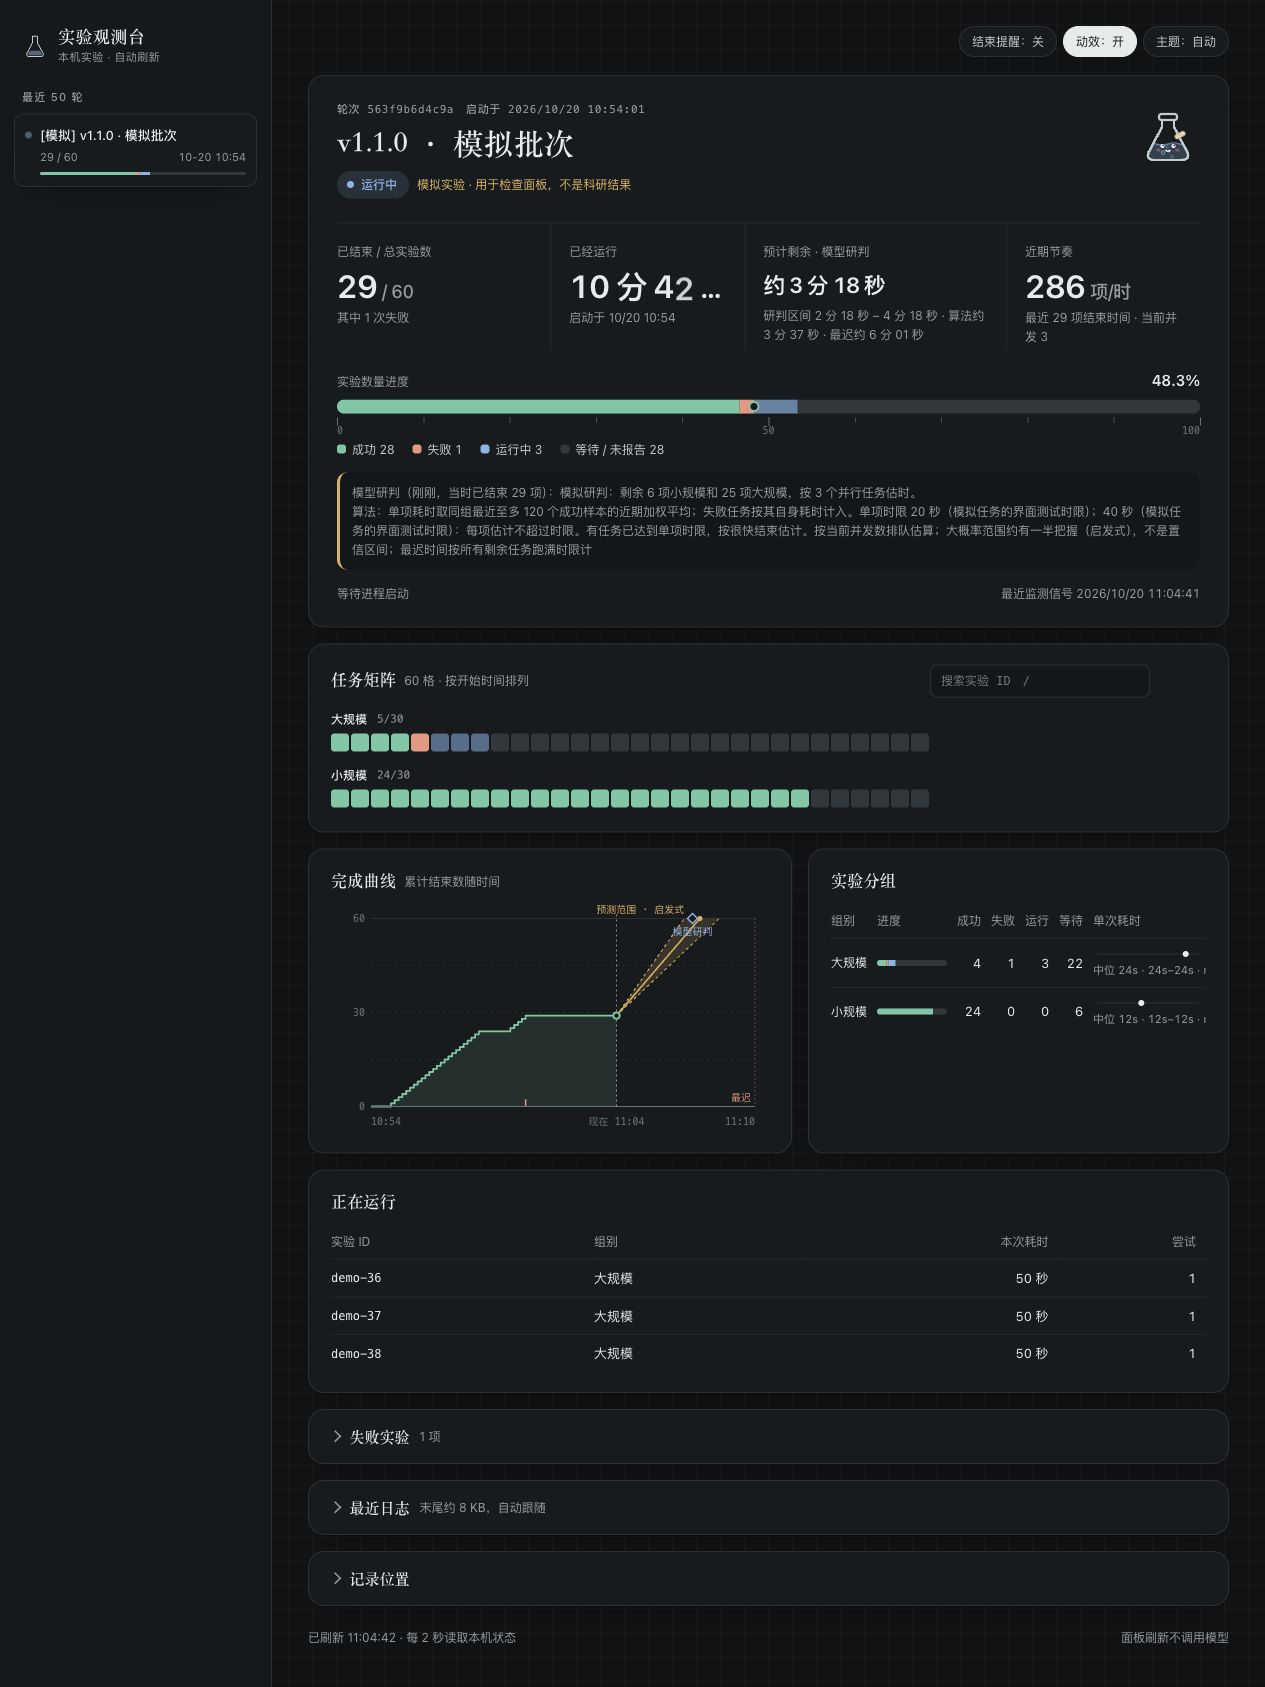
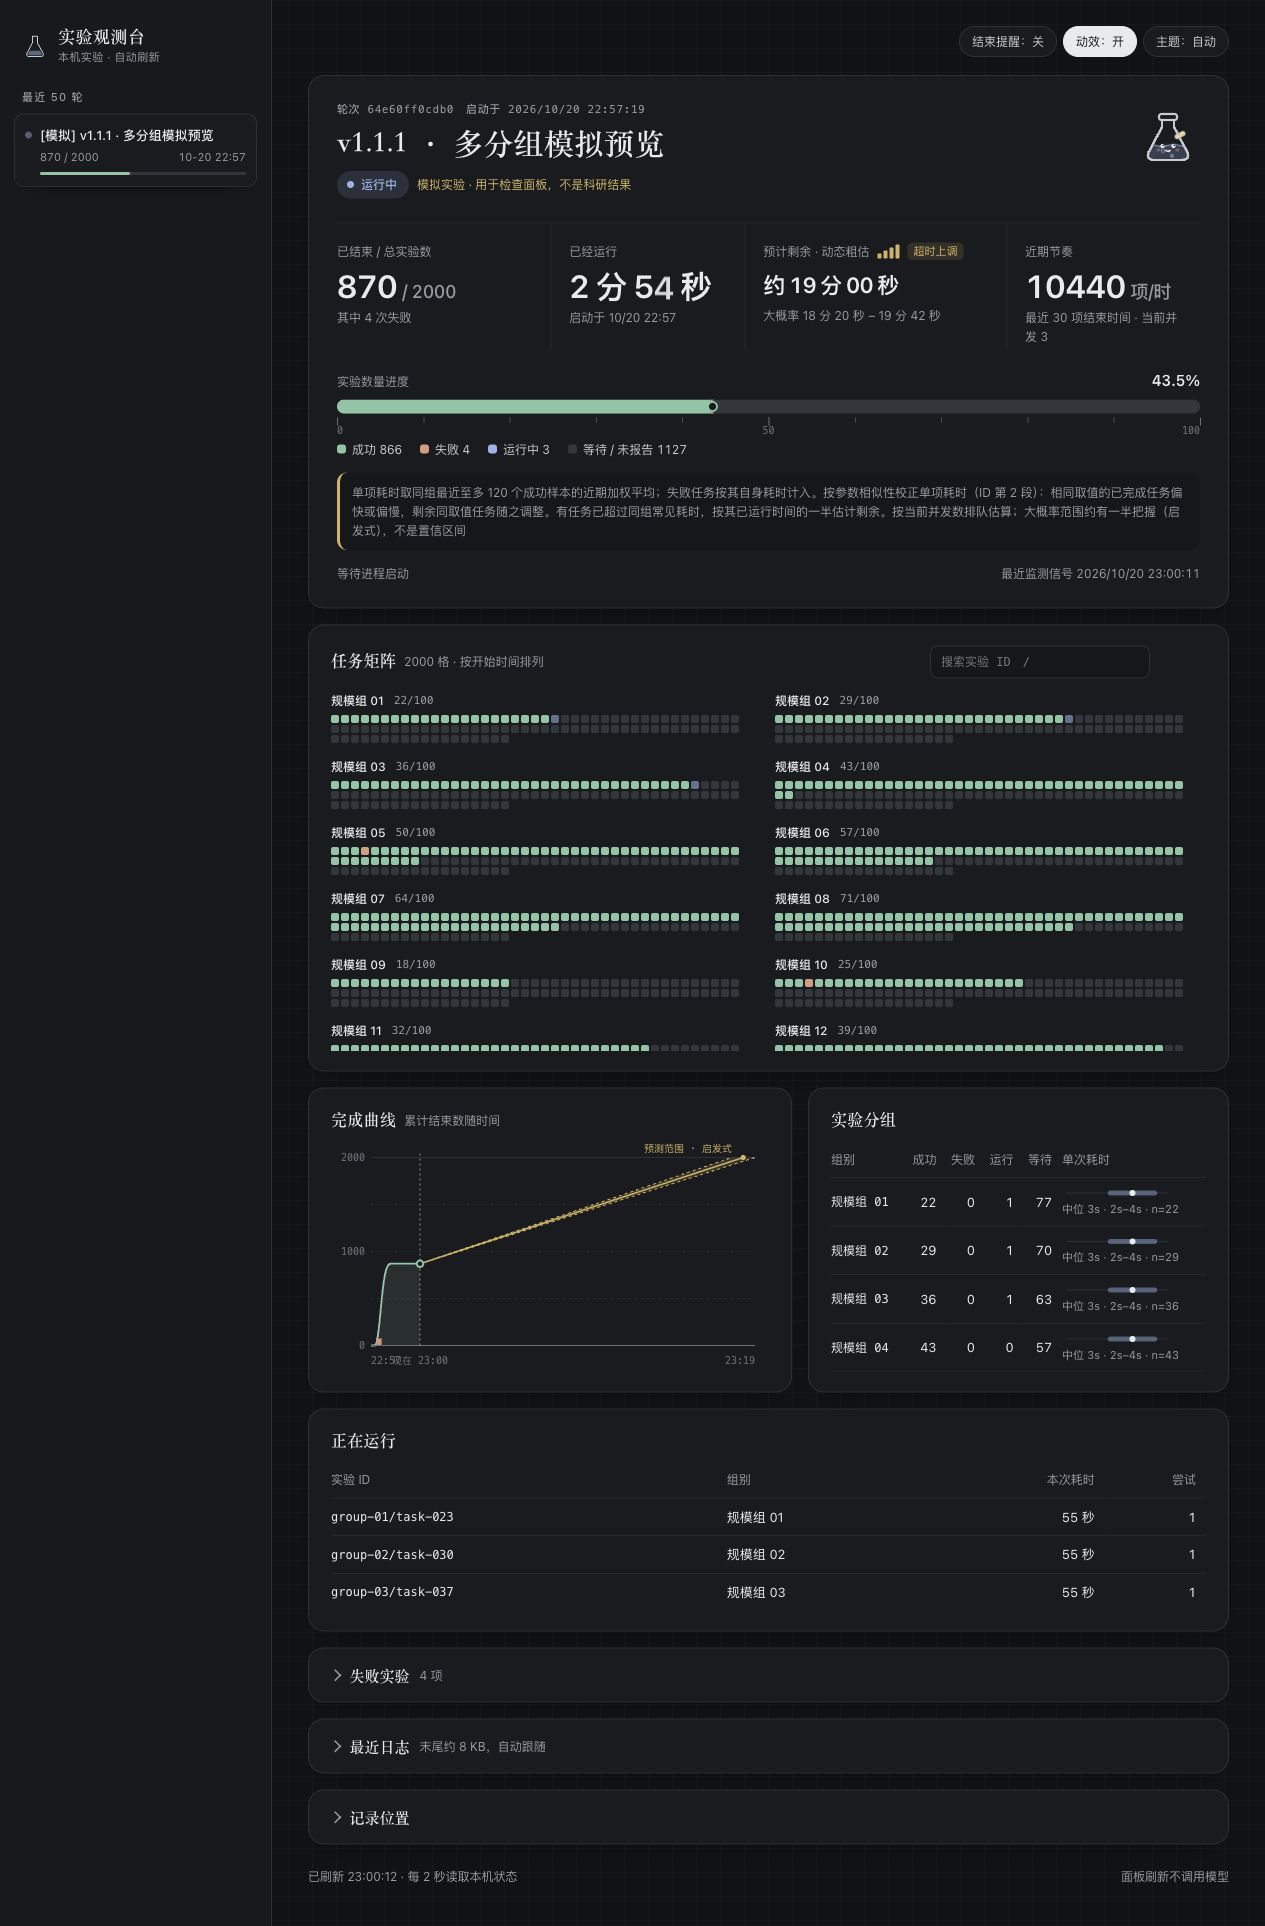
Publish v1.1.1 with scrollable observatory layouts

diff --git a/skills/experiment-progress/assets/dashboard.html b/skills/experiment-progress/assets/dashboard.html
@@ -192,6 +192,7 @@ h3 small{font:400 12px var(--sans);color:var(--muted);margin-left:8px;letter-spa
 .search input:focus{outline:2px solid var(--run);outline-offset:0;border-color:transparent}
 .search span{font-size:12px;color:var(--muted);font-variant-numeric:tabular-nums;min-width:4em}
 .matrix-wrap{position:relative}
+.matrix-scroll{overflow-y:auto;overscroll-behavior:contain;scrollbar-gutter:stable}
 #matrix{display:block;width:100%;border-radius:6px}
 #matrix:focus-visible{outline:2px solid var(--run);outline-offset:4px}
 .tip{position:absolute;z-index:3;pointer-events:none;background:var(--ink);color:var(--panel);padding:7px 10px;border-radius:8px;font-size:12px;line-height:1.5;transform:translate(-50%,calc(-100% - 10px));white-space:nowrap;box-shadow:0 6px 20px -8px rgba(0,0,0,.5)}
@@ -200,6 +201,9 @@ h3 small{font:400 12px var(--sans);color:var(--muted);margin-left:8px;letter-spa
 .muted-note{color:var(--muted);font-size:13px;padding:18px 0}
 .grid-2{display:grid;grid-template-columns:minmax(0,1.15fr) minmax(0,1fr);gap:16px}
 .grid-2>.section{margin-top:16px}
+#groups-section{display:flex;flex-direction:column}
+#groups-section .table-wrap{flex:1 1 auto;height:0;overflow:auto;overscroll-behavior:contain}
+.gtable thead th{position:sticky;top:0;z-index:1;background:var(--panel)}
 #curve{display:block;width:100%;height:230px}
 #curve text{font:10px var(--mono);fill:var(--faint)}
 table{border-collapse:collapse;width:100%;font-size:13px}
@@ -209,8 +213,6 @@ tr:last-child td{border-bottom:0}
 .num{text-align:right;font-variant-numeric:tabular-nums;white-space:nowrap}
 .id{font-family:var(--mono);font-size:12px}
 .gtable td:first-child{white-space:nowrap;overflow-wrap:normal}
-.gbar{display:flex;height:6px;border-radius:3px;overflow:hidden;background:var(--wait);min-width:70px}
-.gbar i{display:block;height:100%}
 .range svg{display:block;width:110px;height:14px}
 .range small{display:block;font-size:11px;color:var(--muted);font-variant-numeric:tabular-nums;white-space:nowrap}
 .table-wrap{overflow-x:auto}
@@ -234,9 +236,9 @@ footer{display:flex;justify-content:space-between;flex-wrap:wrap;gap:8px;color:v
 #confetti{position:fixed;inset:0;pointer-events:none;z-index:50;width:100vw;height:100vh}
 .sr{position:absolute;width:1px;height:1px;overflow:hidden;clip:rect(0 0 0 0);white-space:nowrap}
 
-@media (max-width:1180px){.readouts{grid-template-columns:1fr 1fr}.readout:nth-child(3){padding-left:0;border-left:0}.readout:nth-child(n+3){border-top:1px solid var(--line-2)}.grid-2{grid-template-columns:minmax(0,1fr)}}
+@media (max-width:1180px){.readouts{grid-template-columns:1fr 1fr}.readout:nth-child(3){padding-left:0;border-left:0}.readout:nth-child(n+3){border-top:1px solid var(--line-2)}.grid-2{grid-template-columns:minmax(0,1fr)}#groups-section .table-wrap{height:auto;max-height:320px}}
 @media (max-width:900px){.app{grid-template-columns:1fr}.rail{display:none}.mobile-pick{display:block;flex-basis:100%}.tools{margin-left:0}main{padding:16px 16px 30px}}
-@media (max-width:560px){.hero{padding:20px 18px}.section{padding:16px}.dbody{padding:0 16px 16px}details>summary{padding:14px 16px}.value{font-size:26px}.value.medium{font-size:18px;line-height:1.75}.readout{padding-right:10px}.readout+.readout{padding-left:10px}.readout:nth-child(3){padding-left:0}.mascot{width:52px;height:52px}.bubble{display:none}.search input{width:140px}.gtable th:nth-child(2),.gtable td:nth-child(2){display:none}.kv{grid-template-columns:max-content minmax(0,1fr)}.kv .copy{display:none}}
+@media (max-width:560px){.hero{padding:20px 18px}.section{padding:16px}.dbody{padding:0 16px 16px}details>summary{padding:14px 16px}.value{font-size:26px}.value.medium{font-size:18px;line-height:1.75}.readout{padding-right:10px}.readout+.readout{padding-left:10px}.readout:nth-child(3){padding-left:0}.mascot{width:52px;height:52px}.bubble{display:none}.search input{width:140px}.kv{grid-template-columns:max-content minmax(0,1fr)}.kv .copy{display:none}}
 @media (pointer:coarse){.chip-btn,.mobile-pick select,.search input{min-height:40px}}
 </style>
 </head>
@@ -293,13 +295,13 @@ footer{display:flex;justify-content:space-between;flex-wrap:wrap;gap:8px;color:v
     <section class="card section">
       <div class="sec-head"><h3>任务矩阵<small id="matrix-sub">每格一个实验</small></h3>
         <label class="search"><span class="sr">按实验 ID 搜索</span><input id="search" type="search" placeholder="搜索实验 ID　/" autocomplete="off" spellcheck="false"><span id="search-count"></span></label></div>
-      <div class="matrix-wrap" id="matrix-wrap"><canvas id="matrix" tabindex="0" role="img" aria-label="任务矩阵"></canvas><div id="tip" class="tip" hidden></div></div>
+      <div class="matrix-wrap" id="matrix-wrap"><div class="matrix-scroll" id="matrix-scroll"><canvas id="matrix" tabindex="0" role="img" aria-label="任务矩阵"></canvas></div><div id="tip" class="tip" hidden></div></div>
       <p id="matrix-empty" class="muted-note" hidden></p>
     </section>
 
     <div class="grid-2">
       <section class="card section"><div class="sec-head"><h3>完成曲线<small>累计结束数随时间</small></h3></div><svg id="curve" role="img" aria-label="累计完成曲线"></svg><p id="curve-empty" class="muted-note" hidden>首个任务结束后显示曲线。</p></section>
-      <section class="card section" id="groups-section"><div class="sec-head"><h3 id="groups-heading">实验分组</h3></div><div class="table-wrap"><table class="gtable"><thead><tr><th>组别</th><th class="gcol">进度</th><th class="num">成功</th><th class="num">失败</th><th class="num">运行</th><th class="num">等待</th><th>单次耗时</th></tr></thead><tbody id="groups"></tbody></table></div></section>
+      <section class="card section" id="groups-section"><div class="sec-head"><h3 id="groups-heading">实验分组</h3></div><div class="table-wrap"><table class="gtable"><thead><tr><th>组别</th><th class="num">成功</th><th class="num">失败</th><th class="num">运行</th><th class="num">等待</th><th>单次耗时</th></tr></thead><tbody id="groups"></tbody></table></div></section>
     </div>
 
     <section class="card section" id="active-section"><div class="sec-head"><h3 id="active-heading">正在运行</h3></div><div class="table-wrap"><table><thead><tr><th>实验 ID</th><th>组别</th><th class="num">本次耗时</th><th class="num">尝试</th></tr></thead><tbody id="active"></tbody></table></div></section>
@@ -440,13 +442,20 @@ function buildMatrix(){
   M.cells=cells;M.sections=sections;layoutMatrix();
 }
 function layoutMatrix(){
-  const W=Math.max(200,canvas.parentElement.clientWidth),n=M.cells.length,head=24,pad=12;M.width=W;
-  const maxH=Math.max(220,Math.min(420,innerHeight*.5));
-  const fit=s=>{const gap=s>=8?2:1,cols=Math.max(1,Math.floor((W+gap)/(s+gap)));let h=0;for(const sec of M.sections)h+=head+Math.ceil(Math.max(1,sec.end-sec.start)/cols)*(s+gap)+pad;return {s,gap,cols,h};};
-  let best=null;for(const s of [18,16,14,12,11,10,9,8,7,6,5,4,3]){best=fit(s);if(best.h<=maxH)break;}
+  const W=Math.max(200,canvas.parentElement.clientWidth),head=24,pad=12;M.width=W;
+  // Groups sit side by side in two columns when there is room; the panel keeps a fixed height and scrolls.
+  const maxH=Math.max(240,Math.min(420,innerHeight*.5)),lanes=W>=560&&M.sections.length>1?2:1,laneGap=28,laneW=(W-laneGap*(lanes-1))/lanes;
+  $('matrix-scroll').style.maxHeight=maxH+'px';
+  const rowsOf=(sec,cols)=>Math.ceil(Math.max(1,sec.end-sec.start)/cols);
+  const fit=s=>{const gap=s>=8?2:1,cols=Math.max(1,Math.floor((laneW+gap)/(s+gap)));let h=0;for(let j=0;j<M.sections.length;j+=lanes)h+=head+Math.max(...M.sections.slice(j,j+lanes).map(sec=>rowsOf(sec,cols)))*(s+gap)+pad;return {s,gap,cols,h};};
+  let best=null;for(const s of [18,16,14,12,11,10,9,8]){best=fit(s);if(best.h<=maxH)break;}
   if(!best)best={s:10,gap:2,cols:1,h:40};
   M.size=best.s;M.gap=best.gap;M.cols=best.cols;let y=0;
-  for(const sec of M.sections){sec.y=y;y+=head;for(let i=sec.start;i<sec.end;i++){const k=i-sec.start;M.cells[i].x=(k%best.cols)*(best.s+best.gap);M.cells[i].y=y+Math.floor(k/best.cols)*(best.s+best.gap);}y+=Math.ceil(Math.max(1,sec.end-sec.start)/best.cols)*(best.s+best.gap)+pad;}
+  for(let j=0;j<M.sections.length;j+=lanes){
+    const row=M.sections.slice(j,j+lanes);
+    row.forEach((sec,lane)=>{sec.x=lane*(laneW+laneGap);sec.y=y;for(let i=sec.start;i<sec.end;i++){const k=i-sec.start;M.cells[i].x=sec.x+(k%best.cols)*(best.s+best.gap);M.cells[i].y=y+head+Math.floor(k/best.cols)*(best.s+best.gap);}});
+    y+=head+Math.max(...row.map(sec=>rowsOf(sec,best.cols)))*(best.s+best.gap)+pad;
+  }
   M.height=Math.max(40,y-pad+2);const dpr=devicePixelRatio||1;
   canvas.style.height=M.height+'px';canvas.width=Math.round(W*dpr);canvas.height=Math.round(M.height*dpr);
   drawMatrix();
@@ -459,8 +468,8 @@ function drawMatrix(t=performance.now()){
   ctx.textBaseline='middle';ctx.font='500 12px '+P.sans;
   for(const sec of M.sections){
     const items=M.cells.slice(sec.start,sec.end),done=items.filter(c=>c.st>=2).length;
-    ctx.fillStyle=P.ink;ctx.textAlign='left';ctx.fillText(sec.name,0,sec.y+10);const w=ctx.measureText(sec.name).width;
-    ctx.fillStyle=P.muted;ctx.font='11px '+P.mono;ctx.fillText(`${done}/${items.length}`,w+10,sec.y+10);ctx.font='500 12px '+P.sans;
+    ctx.fillStyle=P.ink;ctx.textAlign='left';ctx.fillText(sec.name,sec.x,sec.y+10);const w=ctx.measureText(sec.name).width;
+    ctx.fillStyle=P.muted;ctx.font='11px '+P.mono;ctx.fillText(`${done}/${items.length}`,sec.x+w+10,sec.y+10);ctx.font='500 12px '+P.sans;
   }
   const fill=[P.wait,P.run,P.ok,P.bad],r=Math.min(3,s/4);
   for(let i=0;i<M.cells.length;i++){
@@ -493,8 +502,10 @@ function showTip(i){
   tip.replaceChildren(...lines.map(([tag,v],k)=>{const el=document.createElement(tag);el.textContent=v;if(k){el.style.display='block';}return el;}));
   tip.hidden=false;
   const W=M.width,x=Math.min(W-90,Math.max(90,c.x+M.size/2));
-  tip.style.left=x+'px';tip.style.top=c.y+'px';
+  tip.style.left=x+'px';tip.style.top=(c.y-$('matrix-scroll').scrollTop)+'px';
 }
+function reveal(i){const sc=$('matrix-scroll'),c=M.cells[i];if(c.y<sc.scrollTop)sc.scrollTop=c.y-30;else if(c.y+M.size>sc.scrollTop+sc.clientHeight)sc.scrollTop=c.y+M.size-sc.clientHeight+6;}
+$('matrix-scroll').addEventListener('scroll',()=>{if(M.hover>=0||M.focus>=0)showTip(M.focus>=0?M.focus:M.hover);},{passive:true});
 canvas.addEventListener('pointermove',e=>{const b=canvas.getBoundingClientRect();const i=cellAt(e.clientX-b.left,e.clientY-b.top);if(i!==M.hover){M.hover=i;M.focus=-1;showTip(i);drawMatrix();}});
 canvas.addEventListener('pointerleave',()=>{M.hover=-1;if(M.focus<0)showTip(-1);drawMatrix();});
 canvas.addEventListener('blur',()=>{M.focus=-1;showTip(-1);drawMatrix();});
@@ -505,7 +516,7 @@ canvas.addEventListener('keydown',e=>{
   else if(e.key==='ArrowDown')i=near(1);else if(e.key==='ArrowUp')i=near(-1);
   else if(e.key==='Home')i=0;else if(e.key==='End')i=M.cells.length-1;
   else if(e.key==='Escape'){M.focus=-1;showTip(-1);drawMatrix();return;}else return;
-  e.preventDefault();M.focus=i;showTip(i);drawMatrix();
+  e.preventDefault();M.focus=i;reveal(i);showTip(i);drawMatrix();
 });
 $('search').addEventListener('input',e=>{M.query=e.target.value.trim().toLowerCase();const n=M.query?M.cells.filter(matches).length:0;text('search-count',M.query?`${n} 项`:'');drawMatrix();});
 addEventListener('keydown',e=>{if(e.key==='/'&&!/INPUT|SELECT|TEXTAREA/.test(document.activeElement.tagName)){e.preventDefault();$('search').focus();}});
@@ -652,12 +663,10 @@ function render(r){
   const gs=r.groups||[];$('groups-section').hidden=!gs.length;text('groups-heading',r.planned?'实验分组':'已报告的实验组');
   const maxD=Math.max(1,...gs.map(g=>g.p75||0))*1.15;
   rows('groups',gs.map(g=>{
-    const bar=document.createElement('div');bar.className='gbar';const n=g.registered||1;
-    for(const [k,col] of [['succeeded','var(--ok)'],['failed','var(--bad)'],['running','var(--run)']]){const i=document.createElement('i');i.style.width=(100*g[k]/n)+'%';i.style.background=col;bar.append(i);}
     const cell=document.createElement('div');cell.className='range';
     if(g.median!=null){const s=v=>(4+v/maxD*102).toFixed(1);cell.innerHTML=`<svg viewBox="0 0 110 14" aria-hidden="true"><line x1="4" x2="106" y1="7" y2="7" stroke="var(--line)"/><line x1="${s(g.p25)}" x2="${s(g.p75)}" y1="7" y2="7" stroke="var(--run)" stroke-width="5" stroke-linecap="round" opacity=".45"/><circle cx="${s(g.median)}" cy="7" r="3" fill="var(--ink)"/></svg>`;const sm=document.createElement('small');sm.textContent=`中位 ${short(g.median)}${g.samples>=3?` · ${short(g.p25)}–${short(g.p75)}`:''} · n=${g.samples}`;cell.append(sm);}
     else{const sm=document.createElement('small');sm.textContent='尚无计时样本';cell.append(sm);}
-    return [g.name,bar,g.succeeded,g.failed,g.running,g.pending,cell];}));
+    return [g.name,g.succeeded,g.failed,g.running,g.pending,cell];}),1);
   // active / failures
   $('active-section').hidden=!r.active.length;text('active-heading',live?`正在运行${r.active.length>=30?'（最多显示 30 项）':''}`:'最后记录为运行中（状态待核验）');
   $('failures-section').hidden=!c.failed;text('failures-label',`${c.failed} 项${c.failed>30?' · 最多显示 30 项':''}`);

diff --git a/README.en.md b/README.en.md
@@ -12,6 +12,10 @@ The card preview uses isolated synthetic records; Codex supplies the surrounding
 
 The sidebar observatory reuses the web dashboard's HTML and reads the same records through the plugin. The standalone web page remains available. The full view includes ID search, keyboard task inspection, group statistics, logs, themes, and a motion toggle.
 
+## Changes in v1.1.1
+
+The observatory arranges task groups in two columns on wide screens and scrolls within the matrix when needed. Keyboard navigation brings the selected task into view. The group table removes duplicate progress bars, keeps its header visible while scrolling, and retains all state counts on narrow screens.
+
 ## Changes in v1.1.0
 
 - The chat card is the routine progress view, with the full observatory in the plugin sidebar. This repository now includes both the skill and an installable plugin.
@@ -29,7 +33,7 @@ The sidebar observatory reuses the web dashboard's HTML and reads the same recor
 ## Install and use in Codex
 
 ```text
-$skill-installer Install https://github.com/ylimingtju/experiment-progress/tree/v1.1.0/skills/experiment-progress.
+$skill-installer Install https://github.com/ylimingtju/experiment-progress/tree/v1.1.1/skills/experiment-progress.
 ```
 
 ```text
@@ -45,7 +49,7 @@ See the [official OpenAI instructions](https://learn.chatgpt.com/docs/build-skil
 Install the skill above, then add this repository as a plugin source:
 
 ```sh
-codex plugin marketplace add ylimingtju/experiment-progress --ref v1.1.0
+codex plugin marketplace add ylimingtju/experiment-progress --ref v1.1.1
 ```
 
 In the desktop host's plugin directory, select the **Experiment Progress** source, install **实验观测台**, and start a new chat. See the [official OpenAI plugin instructions](https://developers.openai.com/plugins/build/plugins) for marketplace registration and local installation. This repository distributes a GitHub plugin source.
@@ -161,7 +165,7 @@ Tests use isolated temporary directories. The skill test covers counts, retries,
 
 ## Update from an older version
 
-The current version is `v1.1.0`; previous tags are preserved. Keep custom edits before updating the skill. Do not delete the state directory. Database access adds `eta_limits` and `eta_forecasts` when needed, retaining existing runs, tasks, parameters, and priors. Existing experiment processes running older code can continue writing.
+The current version is `v1.1.1`; previous tags are preserved. Keep custom edits before updating the skill. Do not delete the state directory. Database access adds `eta_limits` and `eta_forecasts` when needed, retaining existing runs, tasks, parameters, and priors. Existing experiment processes running older code can continue writing.
 
 Replacing files does not update a running service automatically. After installing, run `python3 "$EP" dashboard --restart --open` to load the new page. This restarts only the web service, preserving its URL and access token while leaving experiment and supervisor processes running.
 
